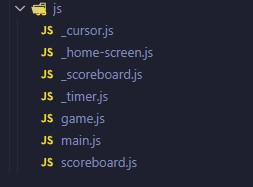
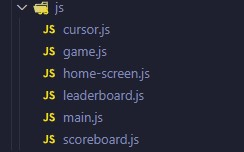
Extra explanations | Small changes to the tuorial

diff --git a/public/tutorial.html b/public/tutorial.html
@@ -16,7 +16,7 @@
 <body>
   <!-- HEADER -->
   <header class="header">
-    <h1 class="title"><a href="index.html">Whack A Beaver</a></h1>
+    <h1 class="title"><a href="../index.html">Whack A Beaver</a></h1>
     <nav class="nav">
       <ul class="nav__list">
         <li><a class="nav__list-item" id="game" href="game.html">Game</a></li>
@@ -49,21 +49,23 @@
         Je kan deze downloaden van de bovenstaande link</p>
       <ul class="list">
         <li class="list__item"><span class="chapter-step">1.1</span>
-          <p>Hier kan je de bronbestanden vinden! <a href="https://www.dropbox.com/scl/fi/m3etgonaw8ifrp4ska9y2/start-to-code.zip?rlkey=kg6ovu0dj1dr36w6jw49daail&st=5dxe6y9t&dl=0" download>
+          <p>Hier kan je de bronbestanden vinden! <a href="https://www.dropbox.com/scl/fi/m3etgonaw8ifrp4ska9y2/start-to-code.zip?rlkey=kg6ovu0dj1dr36w6jw49daail&st=5dxe6y9t&dl=1" download>
               Download Project ZIP
             </a></p>
+          <p>Je kan deze uitpakken en in een folder plaatsen.</p>
+          <p>We hebben je voorzien van enkele basisstijlen in CSS en onze main.js, die geïmporteerde bestanden heeft. Deze zullen nog wel nader uitgelegd worden, maar de rest zal aan jou zijn.</p>
         </li>
         <li class="list__item"><span class="chapter-step">1.2</span>
-          <p>Open het programma Visual Studio Code en open de folder die je zopas hebt gedownload.</p>
-          <p>Je folderstructuur zou er nu zo moeten uitzien.</p>
+          <p class="chapter-info">Open het programma Visual Studio Code en open de folder die je zopas hebt gedownload.</p>
+          <p class="chapter-info">Je folderstructuur zou er nu zo moeten uitzien.</p>
           <img class="chapter__image small" src="../src/assets/images/folder-struc.png" alt="">
         </li>
         <li class="list__item"><span class="chapter-step">1.3</span>
-          <p>Installeer de live server extensie in Visual Studio Code; die ziet er zo uit:</p>
+          <p class="chapter-info">Installeer de live server extensie in Visual Studio Code; die ziet er zo uit:</p>
           <img class="chapter__image" src="../src/assets/images/live-server.jpg" alt="">
         </li>
-        <li class="list__item"><span>1.4</span>
-          <p>Je kan nu de LiveServer starten door met je rechter muisknop te klikken op "index.html" en vervolgens "Open with live server" te kiezen.</p>
+        <li class="list__item"><span class="chapter-step">1.4</span>
+          <p class="chapter-info">Je kan nu de LiveServer starten door met je rechter muisknop te klikken op "index.html" en vervolgens "Open with live server" te kiezen.</p>
           <img class="chapter__image small" src=" ../src/assets/images/open-liveS.jpg" alt="">
         </li>
       </ul>
@@ -150,9 +152,9 @@
             <script async src="https://public.codepenassets.com/embed/index.js"></script>
           </div>
           <p class="chapter-info">Hier gebruiken we ook een pseudo-element. Dit wil zeggen dat we een effectje kunnen plaatsen, zoals :hover</p>
-          <p class="chapter-info last">Hover gebruik je als je met je muis over iets gaat een effect moet plaatsnemen.</p>
+          <p class="chapter-info last">:Hover gebruik je wanneer je met je muis over iets gaat en er een effect moet plaatsvinden, zoals de kleur van de achtergrond die moet veranderen of de schaal van de knop die groter of kleiner wordt.</p>
         </li>
-        <p class="chapter-info last"><strong class="chapter-step">Proficiat</strong> je eerste werkende pagina is klaar!</p>
+        <p class="chapter-info last"><strong class="chapter-step">Joepie!</strong> Je eerste pagina is opgesteld en ziet er al veel beter uit!</p>
       </ul>
     </section>
 
@@ -387,7 +389,7 @@
         </pre>
         </li>
         <li class="list__item"><span class="chapter-step">4.6</span>
-          <p class="chapter-info">Nu maken we een nieuw bestand aan in de CSS folder met de naam: "_scoreboard.css"</p>
+          <p class="chapter-info">Nu maken we een nieuw bestand aan in de CSS folder met de naam: "leaderboard.css"</p>
           <img class="chapter__image small" src="../src/assets/images/score-board.jpg" alt="">
         </li>
         <li class="list__item"><span class="chapter-step">4.7</span>
@@ -470,15 +472,22 @@
     <section class="chapter-container">
       <strong class="chapter">Stap 5: Functionaliteit met JavaScript</strong>
       <p>Volgende deeltje is tevens ook het moeilijkste! We gaan beginnen aan de functionaliteit van heel het spel. Hiervoor gaan we de codetaal JavaScript gebruiken.</p>
+      <p>Het belangrijkste hier is dat je in elk html bestand een lijntje code moet toevoegen. Dit omdat anders onze code niet weet waar hij de functionaliteit uit moet halen. Net zoals bij de CSS moet onze JavaScript ook verbonden worden met de HTML. Dit do je door volgende code vlak voor de sluitings tag van body te plaatsen: <strong> &lt;/body&gt; </strong></p>
+      <pre>
+        <code>
+          &lt;script src=&quot;./src/js/main.js&quot; type=&quot;module&quot;&gt;&lt;/script&gt;
+        </code>
+      </pre>
+      <p>Zo dus:</p>
+      <img class="chapter__image small" src="../src/assets/images/js-insert.jpg" alt="">
       <ul class="list">
         <li class="list__item"><span class="chapter-step">5.1</span>
           <p class="chapter-info">We maken verschillende nieuwe bestanden aan in onze js folder. Hier maken we de volgende bestanden aan:
           </p>
           <ul class="list">
-            <li class="list__item">"_cursor.js"</li>
-            <li class="list__item">"_home-screen.js"</li>
-            <li class="list__item">"_scoreboard.js"</li>
-            <li class="list__item">"_timer.js"</li>
+            <li class="list__item">"cursor.js"</li>
+            <li class="list__item">"home-screen.js"</li>
+            <li class="list__item">"leaderboard.js"</li>
             <li class="list__item">"game.js"</li>
             <li class="list__item">"scoreboard.js"</li>
           </ul>
